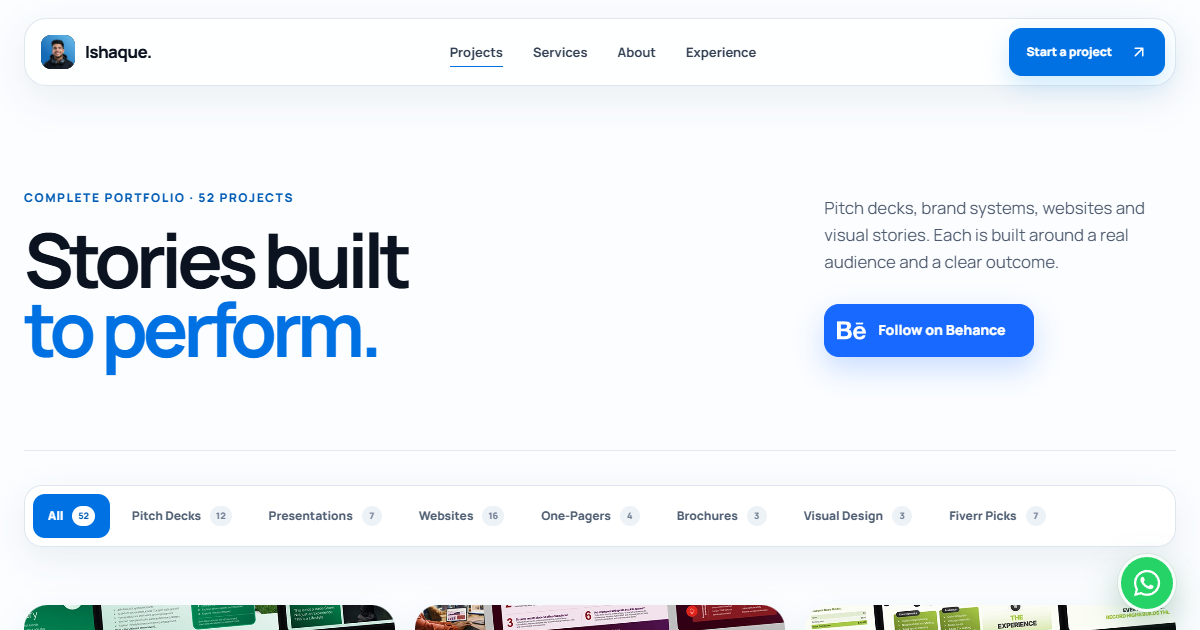
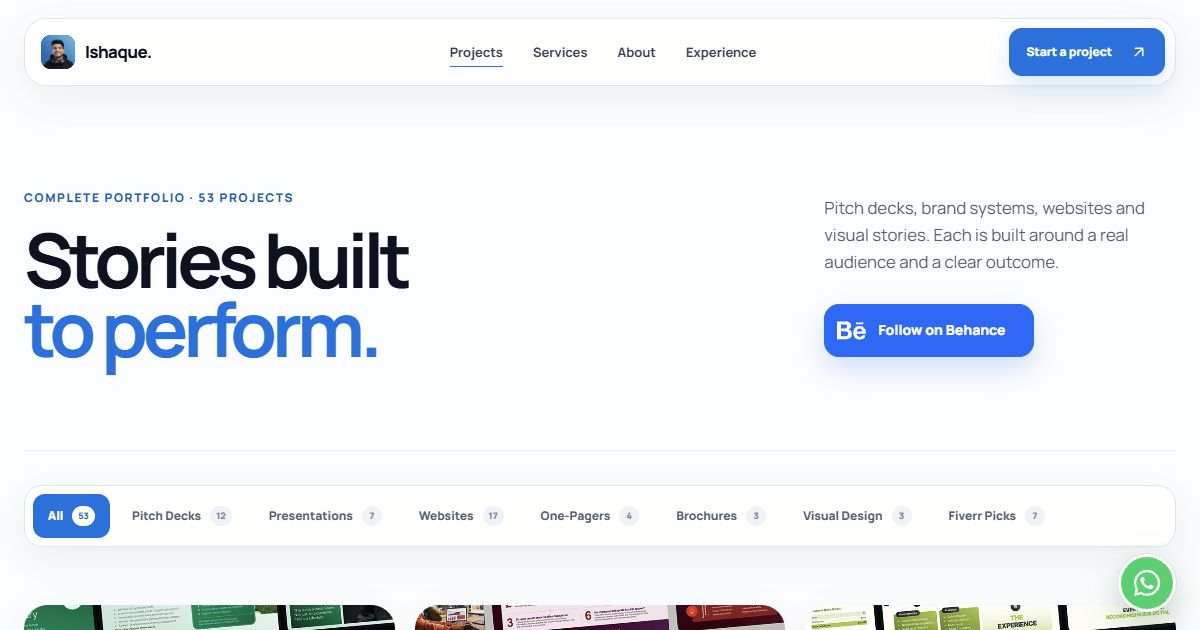
Add SVLHM environmental website project

diff --git a/projects.html b/projects.html
@@ -4,15 +4,15 @@
   <meta charset="UTF-8">
   <meta name="viewport" content="width=device-width, initial-scale=1">
   <meta name="theme-color" content="#ffffff">
-  <meta name="description" content="Explore 52 presentation, branding and website projects by Ishaque Nv. and SkiFi Designs.">
+  <meta name="description" content="Explore 53 presentation, branding and website projects by Ishaque Nv. and SkiFi Designs.">
   <link rel="canonical" href="https://ishaquenv.com/projects.html">
   <meta property="og:type" content="website">
   <meta property="og:site_name" content="Ishaque.">
   <meta property="og:url" content="https://ishaquenv.com/projects.html">
   <meta property="og:title" content="Projects | Ishaque Nv.">
   <meta property="og:description" content="Pitch decks, presentations and visual stories designed to move people to act.">
-  <meta property="og:image" content="https://ishaquenv.com/assets/portfolio/projects-og-image.png?v=20260826">
-  <meta property="og:image:secure_url" content="https://ishaquenv.com/assets/portfolio/projects-og-image.png?v=20260826">
+  <meta property="og:image" content="https://ishaquenv.com/assets/portfolio/projects-og-image.png?v=20260827">
+  <meta property="og:image:secure_url" content="https://ishaquenv.com/assets/portfolio/projects-og-image.png?v=20260827">
   <meta property="og:image:type" content="image/png">
   <meta property="og:image:width" content="1200">
   <meta property="og:image:height" content="630">
@@ -20,7 +20,7 @@
   <meta name="twitter:card" content="summary_large_image">
   <meta name="twitter:title" content="Projects | Ishaque Nv.">
   <meta name="twitter:description" content="Pitch decks, presentations and visual stories designed to move people to act.">
-  <meta name="twitter:image" content="https://ishaquenv.com/assets/portfolio/projects-og-image.png?v=20260826">
+  <meta name="twitter:image" content="https://ishaquenv.com/assets/portfolio/projects-og-image.png?v=20260827">
   <meta name="twitter:image:alt" content="Ishaque Nv. complete portfolio with the headline Stories built to perform">
   <title>Projects | Ishaque Nv.</title>
   <link rel="icon" href="/assets/portfolio/ishaque-headshot.jpg" type="image/jpeg">
@@ -59,7 +59,7 @@
   <main id="main">
     <section class="projects-hero section" aria-labelledby="projects-title">
       <div class="projects-hero-copy reveal">
-        <p class="eyebrow">Complete portfolio · 52 projects</p>
+        <p class="eyebrow">Complete portfolio · 53 projects</p>
         <h1 id="projects-title">Stories built<br><span>to perform.</span></h1>
       </div>
       <div class="projects-hero-aside reveal" data-delay="1">
@@ -71,14 +71,14 @@
     <section class="projects-browser section" aria-label="Portfolio projects">
       <button class="project-filter-trigger reveal" type="button" data-project-filter-trigger aria-haspopup="dialog" aria-controls="project-filter-sheet" aria-expanded="false">
         <span class="filter-trigger-icon" aria-hidden="true"><svg viewBox="0 0 24 24" focusable="false"><path d="M4 6h16M7 12h10M10 18h4"></path></svg></span>
-        <span class="filter-trigger-copy"><small>Filter by category</small><strong data-project-filter-label>All projects <em>52</em></strong></span>
+        <span class="filter-trigger-copy"><small>Filter by category</small><strong data-project-filter-label>All projects <em>53</em></strong></span>
         <svg class="filter-trigger-chevron" viewBox="0 0 24 24" aria-hidden="true" focusable="false"><path d="m7 9 5 5 5-5"></path></svg>
       </button>
       <div class="project-filters reveal" role="group" aria-label="Filter projects">
-        <button type="button" class="project-filter is-active" data-project-filter="all" aria-pressed="true">All <span>52</span></button>
+        <button type="button" class="project-filter is-active" data-project-filter="all" aria-pressed="true">All <span>53</span></button>
         <button type="button" class="project-filter" data-project-filter="pitch" aria-pressed="false">Pitch Decks <span>12</span></button>
         <button type="button" class="project-filter" data-project-filter="presentation" aria-pressed="false">Presentations <span>7</span></button>
-        <button type="button" class="project-filter" data-project-filter="website" aria-pressed="false">Websites <span>16</span></button>
+        <button type="button" class="project-filter" data-project-filter="website" aria-pressed="false">Websites <span>17</span></button>
         <button type="button" class="project-filter" data-project-filter="one-pager" aria-pressed="false">One-Pagers <span>4</span></button>
         <button type="button" class="project-filter" data-project-filter="brochure" aria-pressed="false">Brochures <span>3</span></button>
         <button type="button" class="project-filter" data-project-filter="visual" aria-pressed="false">Visual Design <span>3</span></button>
@@ -136,17 +136,18 @@
         <a class="portfolio-card reveal" data-category="website" href="https://glocalmedia.org/" target="_blank" rel="noreferrer"><div class="portfolio-image"><img src="/assets/websites/glocal-media.jpg" width="1440" height="1000" alt="Glocal Media website homepage" loading="lazy"></div><div class="portfolio-meta"><span>Website · 43</span><h2>Glocal Media</h2><i aria-hidden="true">↗</i></div></a>
         <a class="portfolio-card reveal" data-category="website" href="https://confidotravels.com/" target="_blank" rel="noreferrer"><div class="portfolio-image"><img src="/assets/websites/confido-travels.jpg" width="1440" height="1000" alt="Confido Travels website homepage" loading="lazy"></div><div class="portfolio-meta"><span>Website · 44</span><h2>Confido Travels</h2><i aria-hidden="true">↗</i></div></a>
         <a class="portfolio-card reveal" data-category="website" href="https://ourheritagefoundation.in/" target="_blank" rel="noreferrer"><div class="portfolio-image"><img src="/assets/websites/our-heritage-foundation.jpg" width="1440" height="1000" alt="Our Heritage Foundation website homepage" loading="lazy"></div><div class="portfolio-meta"><span>Website · 45</span><h2>Our Heritage Foundation</h2><i aria-hidden="true">↗</i></div></a>
+        <a class="portfolio-card reveal" data-category="website" href="https://www.svlhmenv.com/" target="_blank" rel="noreferrer"><div class="portfolio-image"><img src="/assets/websites/svlhm-env.png" width="1425" height="802" alt="St. Vrain Creek Environmental Flow Surveys website homepage" loading="lazy"></div><div class="portfolio-meta"><span>Website · 46</span><h2>St. Vrain Creek Environmental Flow Surveys</h2><i aria-hidden="true">↗</i></div></a>
 
-        <a class="portfolio-card reveal" data-category="fiverr" href="https://www.fiverr.com/users/skifidesigns/portfolio/NjlhMzRhYjNmMjUyNjcwMDAxYWE3YzZm" target="_blank" rel="noreferrer"><div class="portfolio-image"><img src="/assets/fiverr/reflector-bio.jpg" width="808" height="632" alt="Reflector Bio presentation thumbnail" loading="lazy"></div><div class="portfolio-meta"><span>Fiverr portfolio · 46</span><h2>Reflector Bio</h2><i aria-hidden="true">↗</i></div></a>
-        <a class="portfolio-card reveal" data-category="fiverr" href="https://www.fiverr.com/users/skifidesigns/portfolio" target="_blank" rel="noreferrer"><div class="portfolio-image"><img src="/assets/fiverr/linkedin-club-navigator.jpg" width="808" height="632" alt="LinkedIn and Club Navigator pitch deck thumbnail" loading="lazy"></div><div class="portfolio-meta"><span>Fiverr portfolio · 47</span><h2>LinkedIn × Club Navigator</h2><i aria-hidden="true">↗</i></div></a>
-        <a class="portfolio-card reveal" data-category="fiverr" href="https://www.fiverr.com/users/skifidesigns/portfolio" target="_blank" rel="noreferrer"><div class="portfolio-image"><img src="/assets/fiverr/housekeeping-rules.jpg" width="808" height="632" alt="Housekeeping Rules presentation video thumbnail" loading="lazy"></div><div class="portfolio-meta"><span>Fiverr portfolio · 48</span><h2>Housekeeping Rules</h2><i aria-hidden="true">↗</i></div></a>
-        <a class="portfolio-card reveal" data-category="fiverr" href="https://www.fiverr.com/users/skifidesigns/portfolio" target="_blank" rel="noreferrer"><div class="portfolio-image"><img src="/assets/fiverr/hygiea-health.jpg" width="808" height="632" alt="Hygiea Health pitch deck thumbnail" loading="lazy"></div><div class="portfolio-meta"><span>Fiverr portfolio · 49</span><h2>Hygiea Health</h2><i aria-hidden="true">↗</i></div></a>
-        <a class="portfolio-card reveal" data-category="fiverr" href="https://www.fiverr.com/users/skifidesigns/portfolio" target="_blank" rel="noreferrer"><div class="portfolio-image"><img src="/assets/fiverr/medical-korea.jpg" width="808" height="632" alt="Medical Korea 2026 pitch deck thumbnail" loading="lazy"></div><div class="portfolio-meta"><span>Fiverr portfolio · 50</span><h2>Medical Korea 2026</h2><i aria-hidden="true">↗</i></div></a>
-        <a class="portfolio-card reveal" data-category="fiverr" href="https://www.fiverr.com/users/skifidesigns/portfolio" target="_blank" rel="noreferrer"><div class="portfolio-image"><img src="/assets/fiverr/value360-brand-system.jpg" width="808" height="632" alt="Value360 logo and design system rebrand thumbnail" loading="lazy"></div><div class="portfolio-meta"><span>Fiverr portfolio · 51</span><h2>Value360 Brand System</h2><i aria-hidden="true">↗</i></div></a>
-        <a class="portfolio-card reveal" data-category="fiverr" href="https://www.fiverr.com/users/skifidesigns/portfolio" target="_blank" rel="noreferrer"><div class="portfolio-image"><img src="/assets/fiverr/visionmark-branding.jpg" width="808" height="632" alt="Visionmark branding and logo design thumbnail" loading="lazy"></div><div class="portfolio-meta"><span>Fiverr portfolio · 52</span><h2>Visionmark Branding</h2><i aria-hidden="true">↗</i></div></a>
+        <a class="portfolio-card reveal" data-category="fiverr" href="https://www.fiverr.com/users/skifidesigns/portfolio/NjlhMzRhYjNmMjUyNjcwMDAxYWE3YzZm" target="_blank" rel="noreferrer"><div class="portfolio-image"><img src="/assets/fiverr/reflector-bio.jpg" width="808" height="632" alt="Reflector Bio presentation thumbnail" loading="lazy"></div><div class="portfolio-meta"><span>Fiverr portfolio · 47</span><h2>Reflector Bio</h2><i aria-hidden="true">↗</i></div></a>
+        <a class="portfolio-card reveal" data-category="fiverr" href="https://www.fiverr.com/users/skifidesigns/portfolio" target="_blank" rel="noreferrer"><div class="portfolio-image"><img src="/assets/fiverr/linkedin-club-navigator.jpg" width="808" height="632" alt="LinkedIn and Club Navigator pitch deck thumbnail" loading="lazy"></div><div class="portfolio-meta"><span>Fiverr portfolio · 48</span><h2>LinkedIn × Club Navigator</h2><i aria-hidden="true">↗</i></div></a>
+        <a class="portfolio-card reveal" data-category="fiverr" href="https://www.fiverr.com/users/skifidesigns/portfolio" target="_blank" rel="noreferrer"><div class="portfolio-image"><img src="/assets/fiverr/housekeeping-rules.jpg" width="808" height="632" alt="Housekeeping Rules presentation video thumbnail" loading="lazy"></div><div class="portfolio-meta"><span>Fiverr portfolio · 49</span><h2>Housekeeping Rules</h2><i aria-hidden="true">↗</i></div></a>
+        <a class="portfolio-card reveal" data-category="fiverr" href="https://www.fiverr.com/users/skifidesigns/portfolio" target="_blank" rel="noreferrer"><div class="portfolio-image"><img src="/assets/fiverr/hygiea-health.jpg" width="808" height="632" alt="Hygiea Health pitch deck thumbnail" loading="lazy"></div><div class="portfolio-meta"><span>Fiverr portfolio · 50</span><h2>Hygiea Health</h2><i aria-hidden="true">↗</i></div></a>
+        <a class="portfolio-card reveal" data-category="fiverr" href="https://www.fiverr.com/users/skifidesigns/portfolio" target="_blank" rel="noreferrer"><div class="portfolio-image"><img src="/assets/fiverr/medical-korea.jpg" width="808" height="632" alt="Medical Korea 2026 pitch deck thumbnail" loading="lazy"></div><div class="portfolio-meta"><span>Fiverr portfolio · 51</span><h2>Medical Korea 2026</h2><i aria-hidden="true">↗</i></div></a>
+        <a class="portfolio-card reveal" data-category="fiverr" href="https://www.fiverr.com/users/skifidesigns/portfolio" target="_blank" rel="noreferrer"><div class="portfolio-image"><img src="/assets/fiverr/value360-brand-system.jpg" width="808" height="632" alt="Value360 logo and design system rebrand thumbnail" loading="lazy"></div><div class="portfolio-meta"><span>Fiverr portfolio · 52</span><h2>Value360 Brand System</h2><i aria-hidden="true">↗</i></div></a>
+        <a class="portfolio-card reveal" data-category="fiverr" href="https://www.fiverr.com/users/skifidesigns/portfolio" target="_blank" rel="noreferrer"><div class="portfolio-image"><img src="/assets/fiverr/visionmark-branding.jpg" width="808" height="632" alt="Visionmark branding and logo design thumbnail" loading="lazy"></div><div class="portfolio-meta"><span>Fiverr portfolio · 53</span><h2>Visionmark Branding</h2><i aria-hidden="true">↗</i></div></a>
       </div>
       <div class="projects-pagination-wrap reveal">
-        <p data-project-status role="status" aria-live="polite">Showing 1 to 10 of 52 projects</p>
+        <p data-project-status role="status" aria-live="polite">Showing 1 to 12 of 53 projects</p>
         <nav class="projects-pagination" data-project-pagination aria-label="Project pages"></nav>
       </div>
     </section>
@@ -167,10 +168,10 @@
         <button class="filter-sheet-close" type="button" data-filter-sheet-close aria-label="Close project filters"><svg viewBox="0 0 24 24" aria-hidden="true" focusable="false"><path d="m6 6 12 12M18 6 6 18"></path></svg></button>
       </div>
       <div class="filter-sheet-options" role="group" aria-label="Project categories">
-        <button type="button" class="filter-sheet-option is-selected" data-project-filter-option="all" aria-pressed="true"><span>All Projects</span><small>52</small><i aria-hidden="true"><svg viewBox="0 0 24 24"><path d="m5 12 4 4L19 6"></path></svg></i></button>
+        <button type="button" class="filter-sheet-option is-selected" data-project-filter-option="all" aria-pressed="true"><span>All Projects</span><small>53</small><i aria-hidden="true"><svg viewBox="0 0 24 24"><path d="m5 12 4 4L19 6"></path></svg></i></button>
         <button type="button" class="filter-sheet-option" data-project-filter-option="pitch" aria-pressed="false"><span>Pitch Decks</span><small>12</small><i aria-hidden="true"><svg viewBox="0 0 24 24"><path d="m5 12 4 4L19 6"></path></svg></i></button>
         <button type="button" class="filter-sheet-option" data-project-filter-option="presentation" aria-pressed="false"><span>Presentations</span><small>7</small><i aria-hidden="true"><svg viewBox="0 0 24 24"><path d="m5 12 4 4L19 6"></path></svg></i></button>
-        <button type="button" class="filter-sheet-option" data-project-filter-option="website" aria-pressed="false"><span>Websites</span><small>16</small><i aria-hidden="true"><svg viewBox="0 0 24 24"><path d="m5 12 4 4L19 6"></path></svg></i></button>
+        <button type="button" class="filter-sheet-option" data-project-filter-option="website" aria-pressed="false"><span>Websites</span><small>17</small><i aria-hidden="true"><svg viewBox="0 0 24 24"><path d="m5 12 4 4L19 6"></path></svg></i></button>
         <button type="button" class="filter-sheet-option" data-project-filter-option="one-pager" aria-pressed="false"><span>One-Pagers</span><small>4</small><i aria-hidden="true"><svg viewBox="0 0 24 24"><path d="m5 12 4 4L19 6"></path></svg></i></button>
         <button type="button" class="filter-sheet-option" data-project-filter-option="brochure" aria-pressed="false"><span>Brochures</span><small>3</small><i aria-hidden="true"><svg viewBox="0 0 24 24"><path d="m5 12 4 4L19 6"></path></svg></i></button>
         <button type="button" class="filter-sheet-option" data-project-filter-option="visual" aria-pressed="false"><span>Visual Design</span><small>3</small><i aria-hidden="true"><svg viewBox="0 0 24 24"><path d="m5 12 4 4L19 6"></path></svg></i></button>
